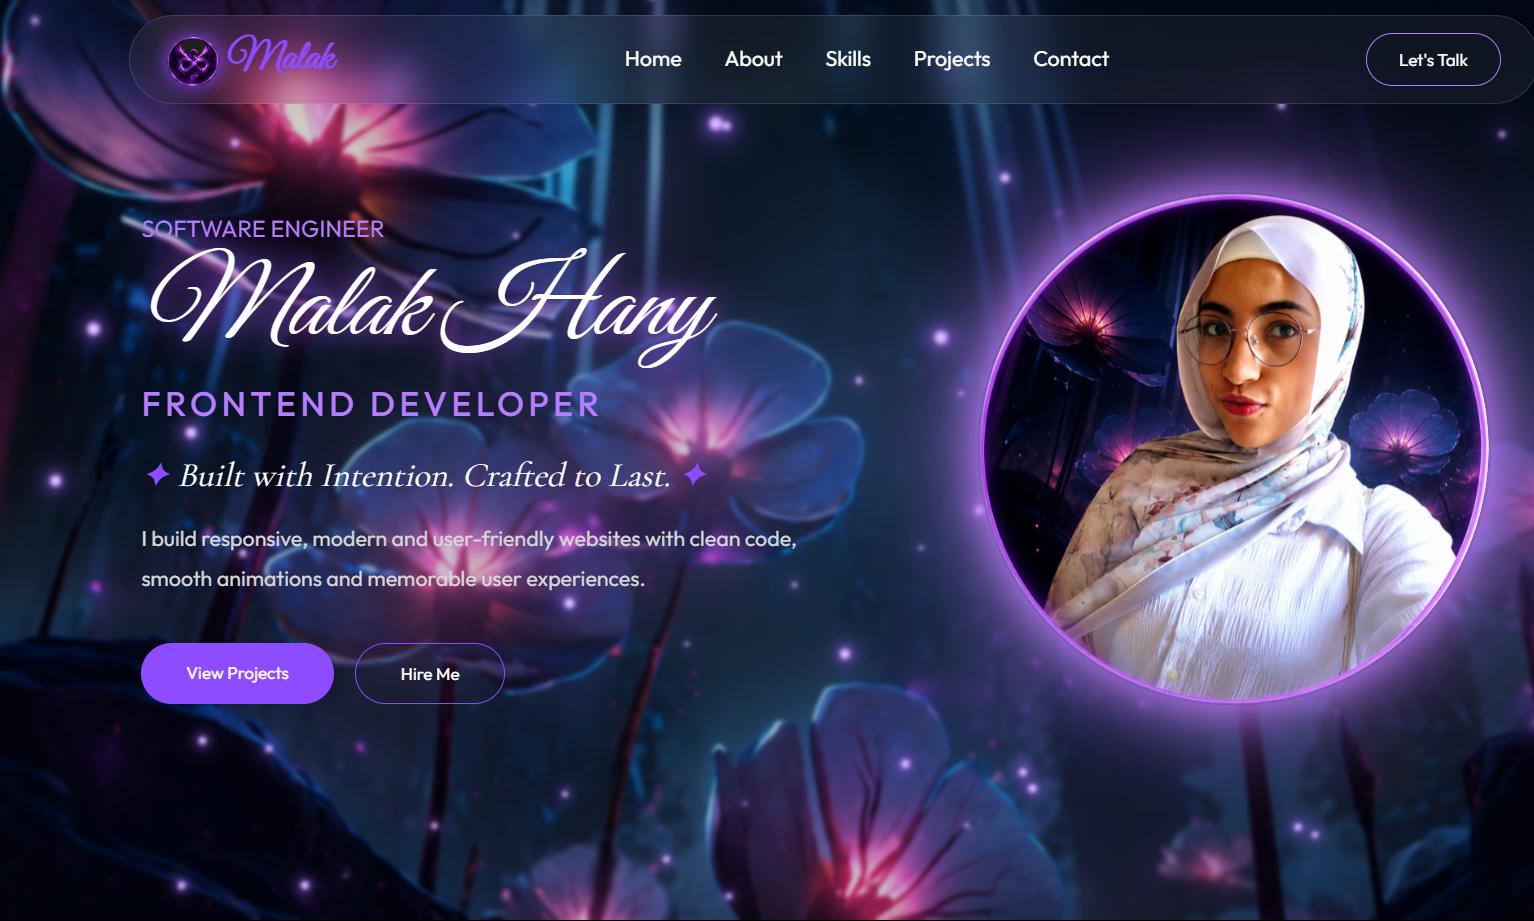
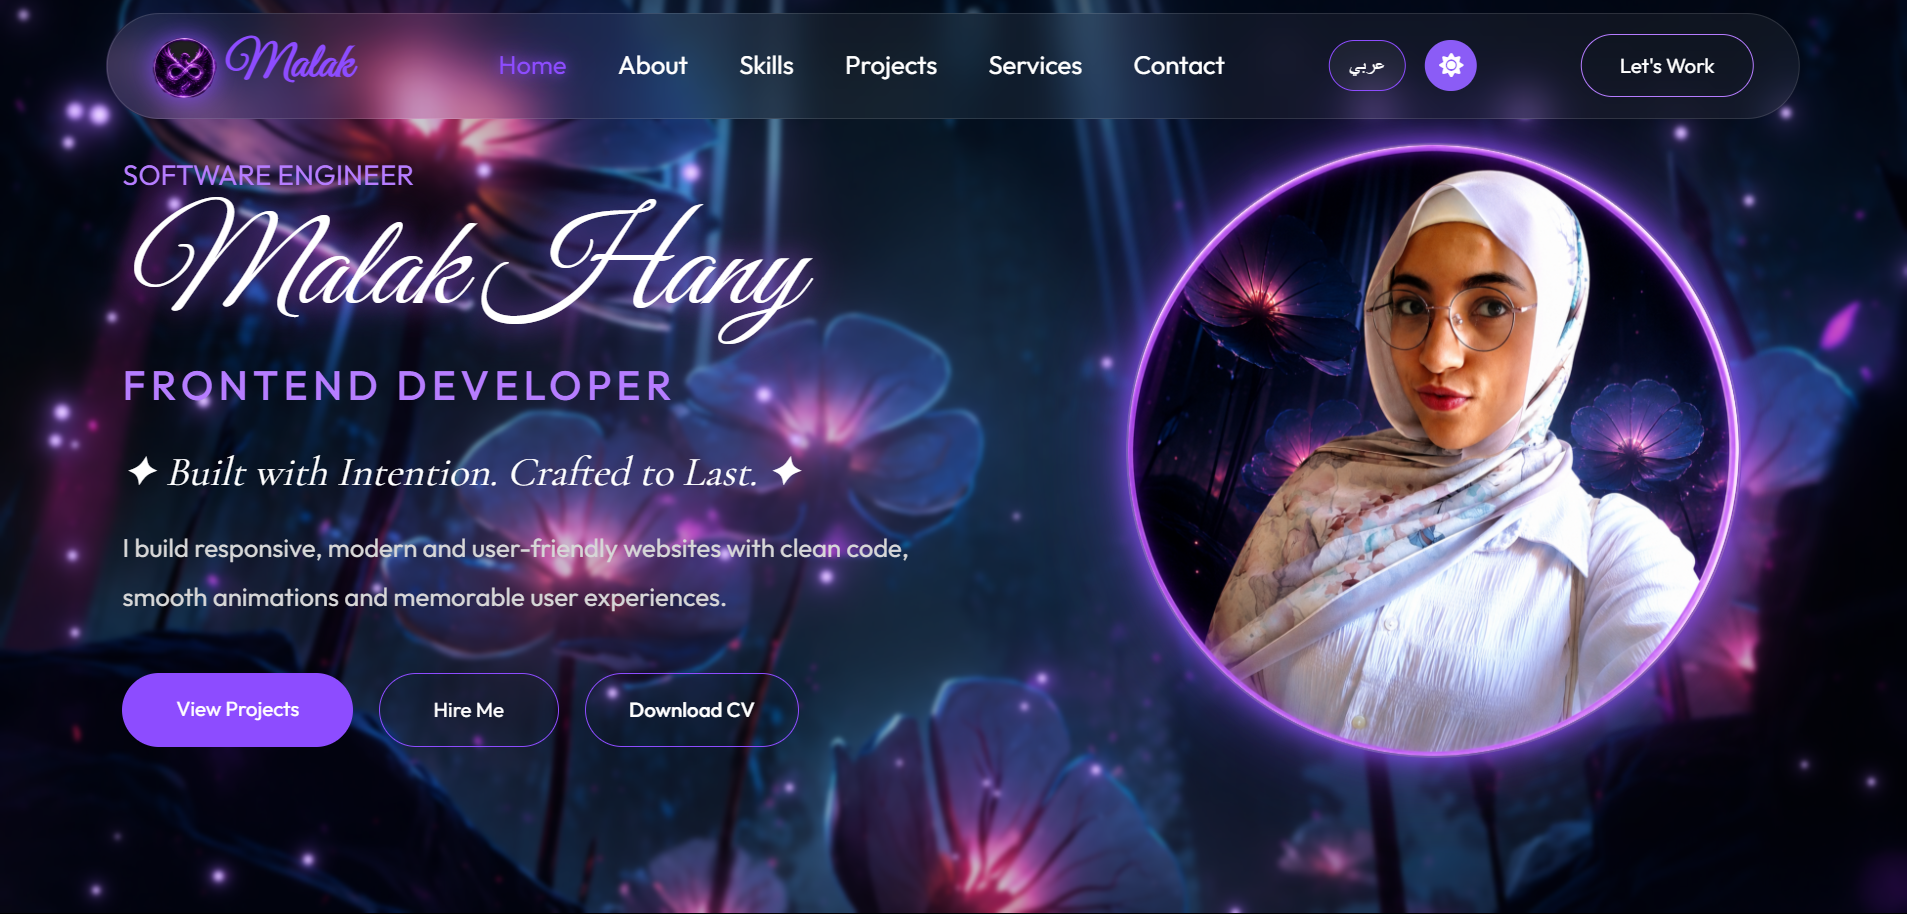
Update portfolio design

diff --git a/css/style.css b/css/style.css
@@ -1220,8 +1220,8 @@ span{
 }
 
 .contact-form{
-    flex:0 0 620px;
-    width:620px;
+    flex:0 0 560px;
+    width:560px;
     padding:45px;
     border-radius:35px;
     background:var(--glass);
@@ -1234,8 +1234,7 @@ span{
 
 .contact-image{
     flex:0 0 460px;
-    /* width:460px; */
-    max-width:460px;
+    max-width:600px;
     width:100%;
     z-index:1;
     position:relative;
@@ -1244,7 +1243,6 @@ span{
 .crystal{
     position:relative;
     width:100%;
-    max-width:800px;
     right:auto;
     top:auto;
     transform:none;
@@ -1466,25 +1464,6 @@ transform:scale(.95);
 }
 }
 @media(max-width:1200px){
-.services-wrapper{
-    width:900px;
-    height:900px;
-}
-.logo-circle{
-    width:340px;
-    height:340px;
-}
-.contact-form{
-    flex:0 0 540px;
-    width:540px;
-}
-.contact-image{
-    flex-basis:400px;
-}
-}
-
-/* tablets */
-@media(max-width:992px){
 .menu-btn{
     display:flex;
     align-items:center;
@@ -1514,6 +1493,30 @@ transform:scale(.95);
     text-align:center;
     padding:14px 0;
 }
+.services-wrapper{
+    width:900px;
+    height:900px;
+}
+.logo-circle{
+    width:340px;
+    height:340px;
+}
+.contact-section{
+    gap:30px;
+}
+.contact-form{
+    flex:0 0 480px;
+    width:480px;
+    margin-inline-start:20px;
+}
+.contact-image{
+    flex-basis:360px;
+    max-width:360px;
+}
+}
+
+/* tablets */
+@media(max-width:992px){
 .hero .container{
     flex-direction:column-reverse;
     text-align:center;
